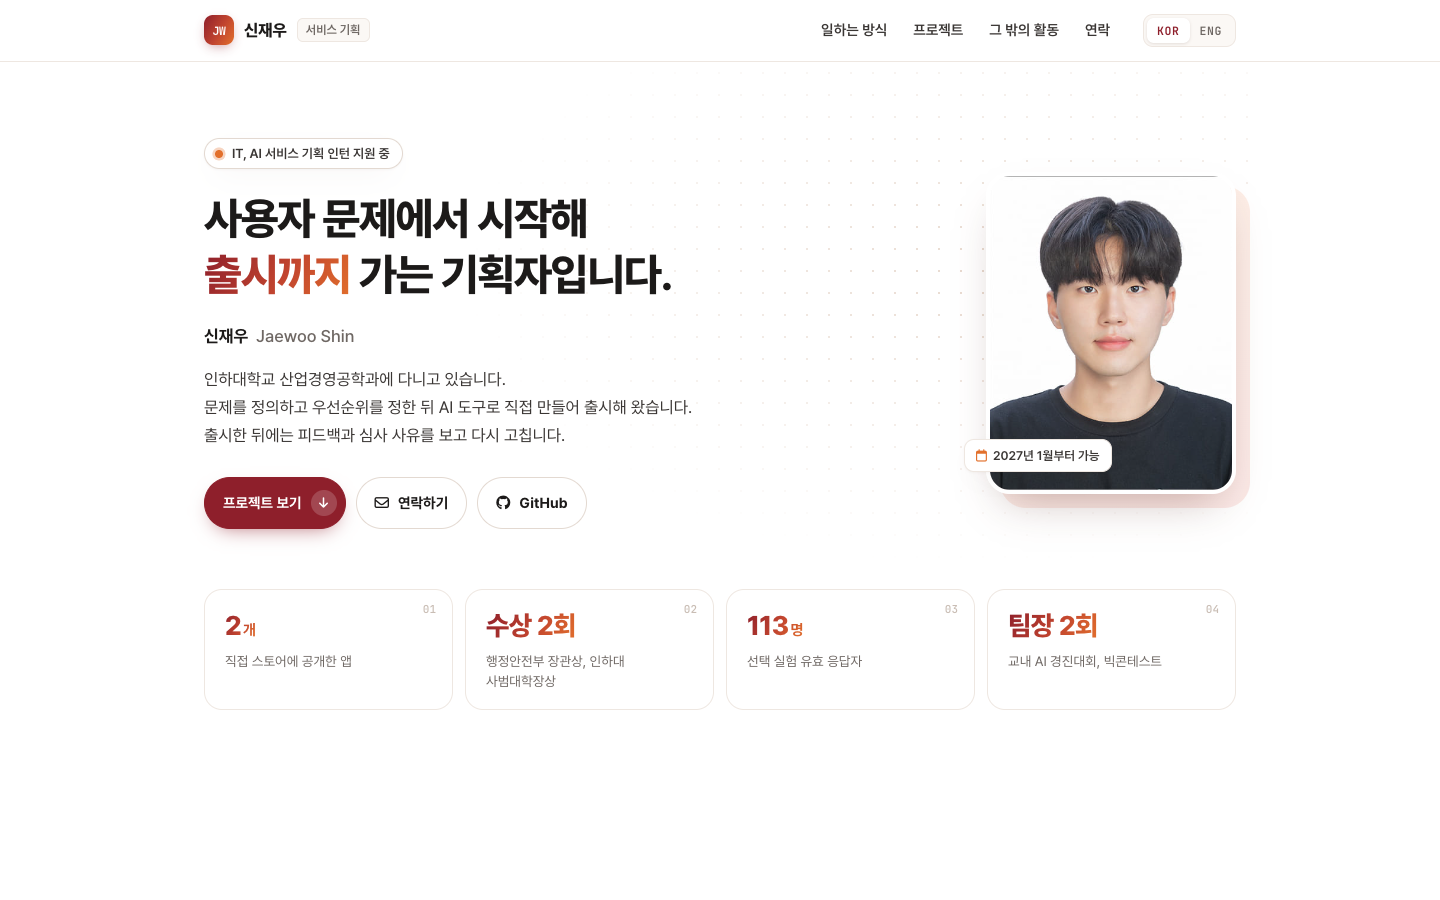
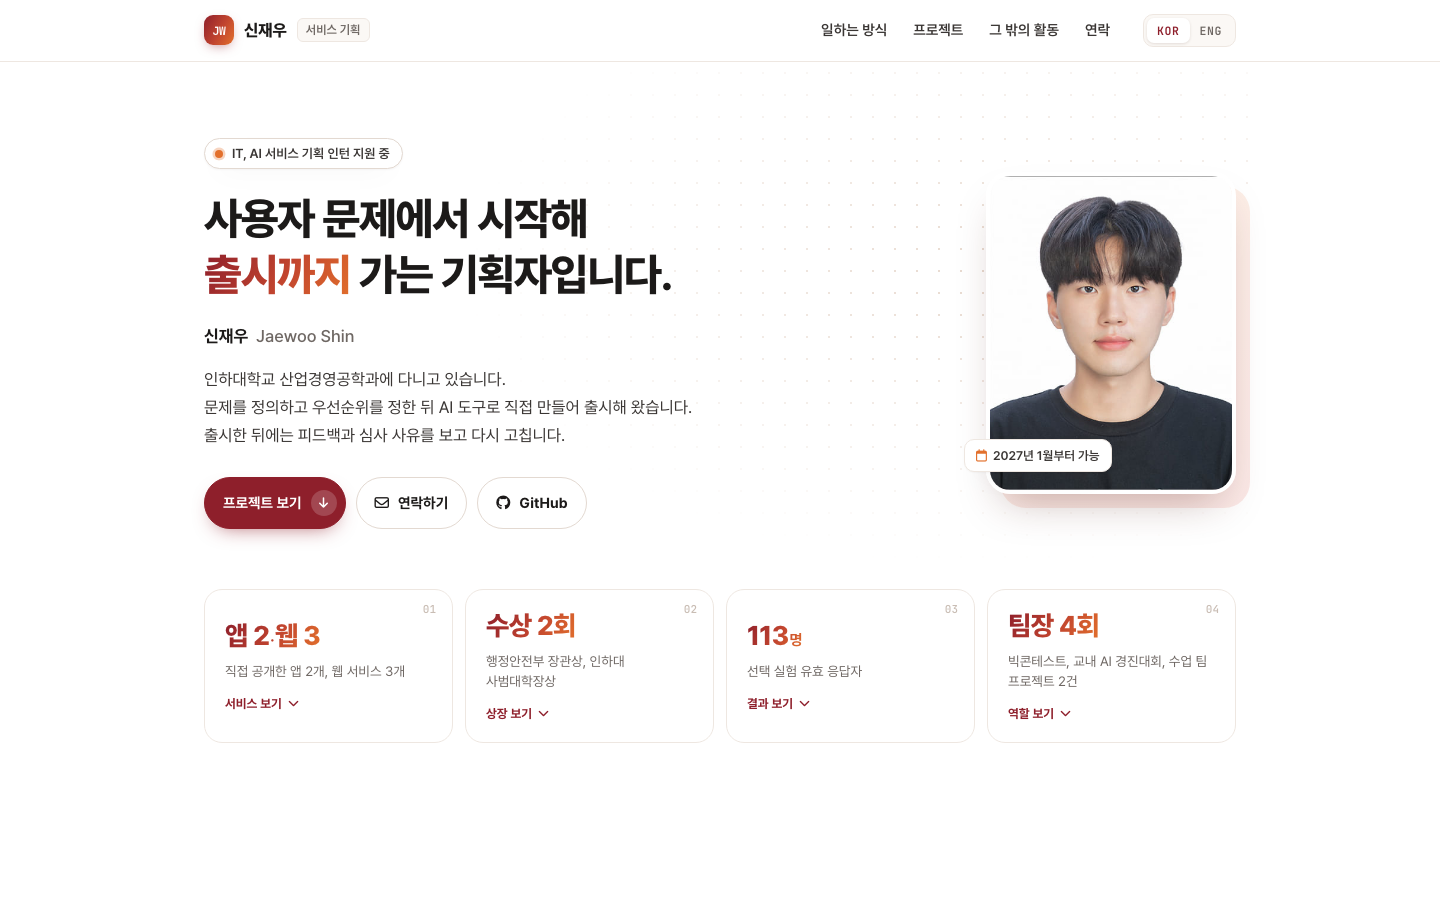
README: 팀장 4회, 일하는 방식, 직접 써 보기, 사이트 구성 반영하고 미리보기 갱신

diff --git a/README.md b/README.md
@@ -20,16 +20,36 @@
 | **It's me** | 디지털 명함 · 관계 관리 앱 | 기획 · 디자인 · 개발 · 배포 (개인) | App Store · Google Play 출시 | [소개](https://github.com/13JVV/itsme-overview) · [App Store](https://apps.apple.com/kr/app/id6769245736) · [사례](https://13jvv.github.io/projects/itsme/) |
 | **CrowdSense** | AI 인파안전 관제 지원 서비스 | 기획 · 설계 · 개발 · 배포 (개인) | 재난안전데이터 활용 창업경진대회 최우수상 (행정안전부 장관상) | [소개](https://github.com/13JVV/crowdsense-overview) · [서비스](https://crowdsense-jvv1.vercel.app) · [사례](https://13jvv.github.io/projects/crowdsense/) |
 | **반갑꼬리** | 반려동물 동반여행 출입 조건 판별 앱 | 프론트엔드, 기능 · DB 설계, 배포 | App Store 출시 · 관광데이터 활용 공모전 출품 | [소개](https://github.com/13JVV/bangapkkori-overview) · [App Store](https://apps.apple.com/kr/app/%EB%B0%98%EA%B0%91%EA%BC%AC%EB%A6%AC/id6810158091) · [사례](https://13jvv.github.io/projects/pet/) |
-| **사회적 고립 예방 AI 에이전트** | 통신 · 카드 집계 데이터로 고립 위험을 찾고 복지 인력 배분을 제안하는 AI 에이전트 | 팀장 | 2026 빅콘테스트 AI데이터활용 분야 출품 | [소개](https://github.com/13JVV/capstone-overview) |
+| **사회적 고립 예방 AI 에이전트** | 통신 · 카드 집계 데이터로 고립 위험을 찾고 복지 인력 배분을 제안하는 AI 에이전트 | 팀장 (4인) | 2026 빅콘테스트 AI데이터활용 분야 출품 | [소개](https://github.com/13JVV/capstone-overview) |
 | **정책 판정관 J-Verdict** | 정책 효과를 스스로 검증 · 판정하는 인과추론 AI Agent | 기획 · 개발 (개인) | 제주 AI·빅데이터 AI Agent 챌린지 출품 | [저장소](https://github.com/13JVV/jverdict) · [데모](https://jverdict.streamlit.app) · [사례](https://13jvv.github.io/projects/jverdict/) |
+| **생성형 AI 구독 모델 분석** | 사용자가 구독에서 무엇을 중요하게 보는지 측정한 선택 실험 | 팀장, 설문 설계 (4인) | 유효 응답 113명, 전문성 중요도 26.4%로 1위 | [사례](https://13jvv.github.io/projects/subscription/) |
+
+프로젝트 페이지마다 **직접 써 보기** 공간이 있습니다. CrowdSense 실시간 관제 화면, It's me 명함 QR 받기, 반갑꼬리 출입 조건 판별, 구독 선택 확률 시뮬레이터, J-Verdict 판정 비교를 사이트 안에서 바로 해 볼 수 있습니다.
+
+## 팀장 경험 (4회)
+
+| 프로젝트 | 팀 | 팀장으로 한 일 |
+|---|---|---|
+| 빅콘테스트 AI데이터활용 캡스톤 | 4인 | 브랜치 · 리뷰 · 데이터 보호 규칙과 의사결정 로그로 같은 근거를 보게 함, 문제 정의 · 분석 설계 · AI 에이전트 구현 |
+| 교내 AI 문제해결 경진대회 | 5인, 4개 전공 | 안전 문제를 "인력과 예산을 어디에 먼저 쓸까"라는 한 질문으로 묶고, 두 화면안을 비교해 팀원 안 채택 |
+| 생성형 AI 구독 모델 분석 | 4인 | 설문 초안의 우세 선택지를 발견해 일정을 늦추더라도 재설계, 유효 응답 113명 확보 |
+| 강화학습 PPO | 3인 | 10개 설정 × 3개 시드 실험을 맡고, 시드 간 편차까지 보는 기준으로 최종 설정 선택 |
+
+## 일하는 방식
+
+- **MVP로 먼저 내고, 반응을 보고 고칩니다.** 핵심 기능 하나로 출시한 뒤 사용자 피드백과 스토어 심사 의견을 다음 우선순위로 바꿉니다.
+- **기능 우선순위는 사용자의 선택으로 정합니다.** 사용자가 무엇을 고르는지 실험으로 확인하고, 팀의 가정이 틀렸다면 데이터를 따릅니다.
+- **AI 기능에는 검증과 사람의 확인을 붙입니다.** 출시 전에 정답을 아는 데이터로 시험하고, 틀릴 수 있는 지점에는 사용자가 확인하는 단계를 넣습니다.
+- **모르는 것은 모른다고 화면에 보여 줍니다.** 데이터가 없거나 모호하면 "확인 필요", "판정 불가"로 알려 줍니다.
 
 ## 사이트 구성
 
 | 경로 | 내용 |
 |---|---|
 | `index.html` | 메인 페이지 (한국어 · 영어 전환) |
-| `projects/` | 프로젝트별 사례 기록 페이지 |
-| `assets/` | 이미지 · 아이콘 |
+| `projects/` | 프로젝트별 사례 페이지와 직접 써 보기 |
+| `assets/base.css` · `assets/case.css` · `assets/site.js` | 메인과 사례 페이지가 함께 쓰는 디자인과 동작 |
+| `assets/img/` · `assets/proof/` | 화면 이미지 · 아이콘 · 상장과 자격증 (개인정보 가림) |
 
 정적 HTML · CSS로 만들었고 GitHub Pages로 배포합니다.
 
